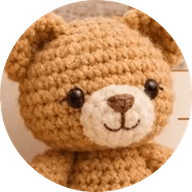
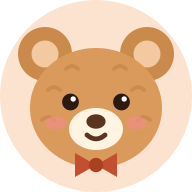
Troca o ícone da aba por um ursinho desenhado

diff --git a/public/amigurumi/index.html b/public/amigurumi/index.html
@@ -10,9 +10,10 @@
 <meta property="og:type" content="website">
 <meta property="og:image" content="/amigurumi/img/hero.webp">
 <meta name="theme-color" content="#FBF4E8">
-<link rel="icon" type="image/png" sizes="32x32" href="/amigurumi/img/icone-32.png">
-<link rel="icon" type="image/png" sizes="192x192" href="/amigurumi/img/icone-192.png">
-<link rel="apple-touch-icon" href="/amigurumi/img/icone-180.png">
+<link rel="icon" type="image/svg+xml" href="/amigurumi/img/icone.svg?v=2">
+<link rel="icon" type="image/png" sizes="32x32" href="/amigurumi/img/icone-32.png?v=2">
+<link rel="icon" type="image/png" sizes="192x192" href="/amigurumi/img/icone-192.png?v=2">
+<link rel="apple-touch-icon" href="/amigurumi/img/icone-180.png?v=2">
 <link rel="preconnect" href="https://fonts.googleapis.com">
 <link rel="preconnect" href="https://fonts.gstatic.com" crossorigin>
 <link href="https://fonts.googleapis.com/css2?family=Caveat:wght@600;700&family=Nunito:wght@400;600;700;800;900&display=swap" rel="stylesheet">
